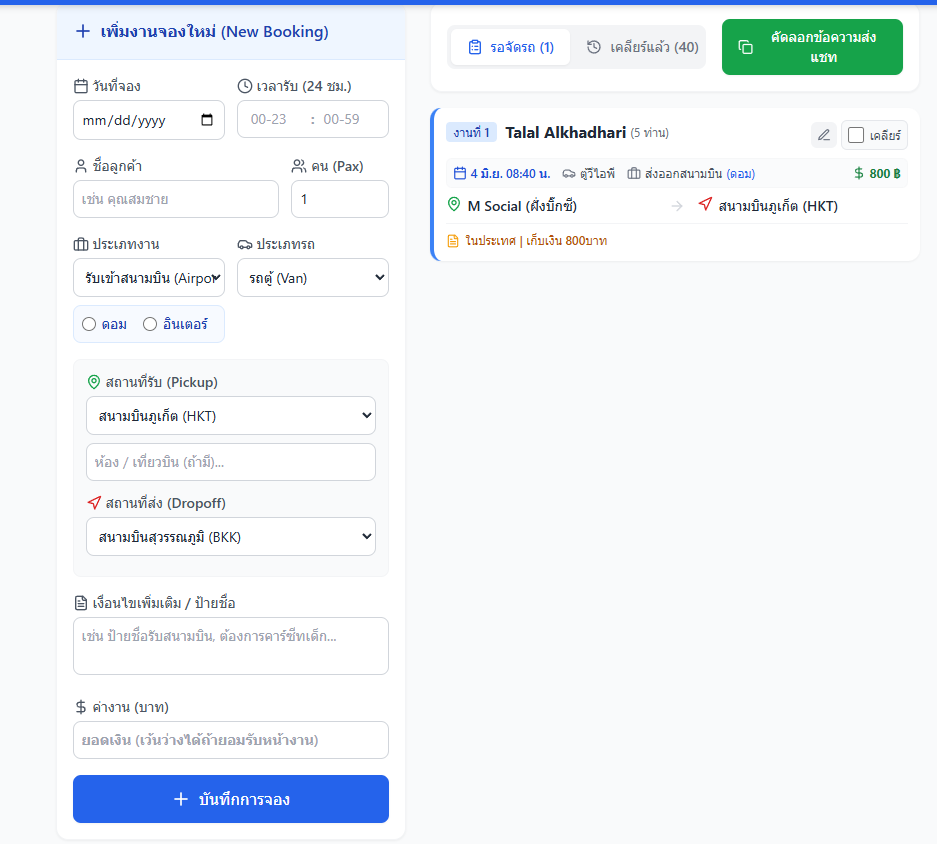
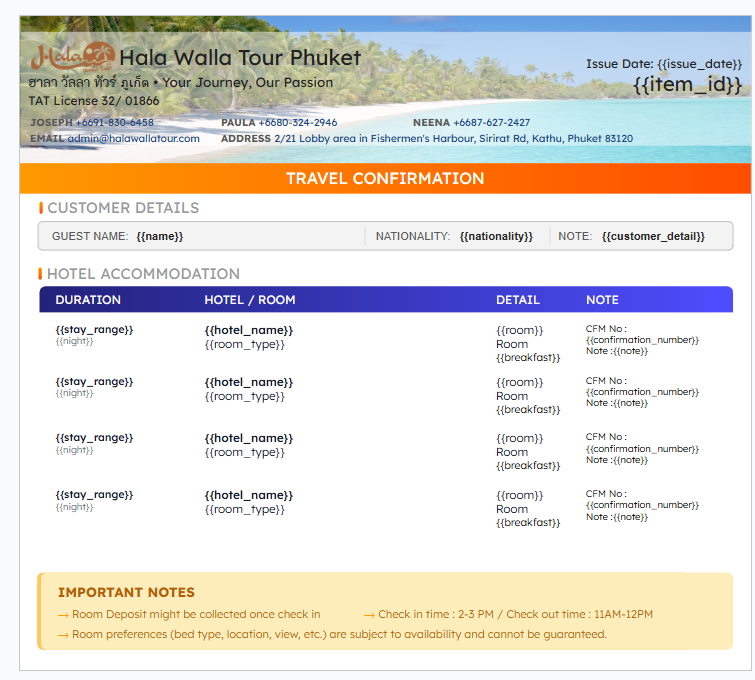
a

diff --git a/src/components/DateField.js b/src/components/DateField.js
@@ -8,6 +8,9 @@ import { th } from 'date-fns/locale';
 
 registerLocale('th', th);
 
+const TH_MONTHS_FULL = ['มกราคม', 'กุมภาพันธ์', 'มีนาคม', 'เมษายน', 'พฤษภาคม', 'มิถุนายน', 'กรกฎาคม', 'สิงหาคม', 'กันยายน', 'ตุลาคม', 'พฤศจิกายน', 'ธันวาคม'];
+const TH_MONTHS_SHORT = ['ม.ค.', 'ก.พ.', 'มี.ค.', 'เม.ย.', 'พ.ค.', 'มิ.ย.', 'ก.ค.', 'ส.ค.', 'ก.ย.', 'ต.ค.', 'พ.ย.', 'ธ.ค.'];
+
 // ----- conversion helpers (storage stays Gregorian 'YYYY-MM-DD' / 'HH:mm') -----
 function toDate(str) {
   if (!str) return null;
@@ -15,7 +18,6 @@ function toDate(str) {
   if (!y || !m || !d) return null;
   return new Date(y, m - 1, d);
 }
-
 function toStr(date) {
   if (!date) return '';
   const y = date.getFullYear();
@@ -23,122 +25,113 @@ function toStr(date) {
   const d = String(date.getDate()).padStart(2, '0');
   return `${y}-${m}-${d}`;
 }
-
 function toTime(str) {
   if (!str) return null;
   const [h, m] = str.split(':').map(Number);
   if (Number.isNaN(h) || Number.isNaN(m)) return null;
-  const d = new Date();
-  d.setHours(h, m, 0, 0);
-  return d;
+  const d = new Date(); d.setHours(h, m, 0, 0); return d;
 }
-
 function toTimeStr(date) {
   if (!date) return '';
-  const h = String(date.getHours()).padStart(2, '0');
-  const m = String(date.getMinutes()).padStart(2, '0');
-  return `${h}:${m}`;
+  return `${String(date.getHours()).padStart(2, '0')}:${String(date.getMinutes()).padStart(2, '0')}`;
 }
 
-// Thai display with Buddhist-era year (พ.ศ. = ค.ศ. + 543), short Thai month.
+// Thai display, Buddhist-era year (พ.ศ. = ค.ศ. + 543)
 function thaiDate(date) {
   if (!date) return '';
-  return `${format(date, 'd MMM', { locale: th })} ${date.getFullYear() + 543}`;
+  return `${format(date, 'd', { locale: th })} ${TH_MONTHS_SHORT[date.getMonth()]} ${date.getFullYear() + 543}`;
 }
 
-// Read-only input that renders a Thai พ.ศ. string instead of the Gregorian value
-// react-datepicker would otherwise inject. We read our own `display` prop so the
-// library's injected `value` is ignored.
-const ThaiInput = forwardRef(function ThaiInput({ display, onClick, placeholder }, ref) {
+// Read-only input rendering a Thai พ.ศ. string (ignores the Gregorian value react-datepicker injects)
+const ThaiInput = forwardRef(function ThaiInput({ display, onClick, placeholder, hasIcon }, ref) {
   return (
-    <input
-      ref={ref}
-      type="text"
-      readOnly
-      onClick={onClick}
-      value={display || ''}
-      placeholder={placeholder}
-      className="input cursor-pointer"
-    />
+    <div className="dp-input-wrap">
+      {hasIcon && <span className="dp-input-icon">📅</span>}
+      <input ref={ref} type="text" readOnly onClick={onClick} value={display || ''} placeholder={placeholder}
+        className={`input cursor-pointer ${hasIcon ? 'pl-9' : ''}`} />
+    </div>
   );
 });
 
-// Thai พ.ศ. month/year header with prev/next navigation.
-function thaiHeader({ monthDate, decreaseMonth, increaseMonth, prevMonthButtonDisabled, nextMonthButtonDisabled }) {
+// ----- calendar headers (Thai month dropdown + พ.ศ. year, pic1 style) -----
+function dayHeader({ date, changeMonth, decreaseMonth, increaseMonth, prevMonthButtonDisabled, nextMonthButtonDisabled }) {
   return (
-    <div className="flex items-center justify-between px-2 py-1">
+    <div className="dp-header">
       <button type="button" onClick={decreaseMonth} disabled={prevMonthButtonDisabled} className="dp-nav" aria-label="เดือนก่อนหน้า">‹</button>
-      <span className="font-semibold text-sm">
-        {format(monthDate, 'MMMM', { locale: th })} {monthDate.getFullYear() + 543}
-      </span>
+      <div className="dp-header-mid">
+        <span className="dp-month-select">
+          <select value={date.getMonth()} onChange={e => changeMonth(+e.target.value)} aria-label="เลือกเดือน">
+            {TH_MONTHS_FULL.map((name, i) => <option key={i} value={i}>{name}</option>)}
+          </select>
+        </span>
+        <span className="dp-year">{date.getFullYear() + 543}</span>
+      </div>
       <button type="button" onClick={increaseMonth} disabled={nextMonthButtonDisabled} className="dp-nav" aria-label="เดือนถัดไป">›</button>
     </div>
   );
 }
+function yearNavHeader({ date, decreaseYear, increaseYear, prevYearButtonDisabled, nextYearButtonDisabled }) {
+  return (
+    <div className="dp-header">
+      <button type="button" onClick={decreaseYear} disabled={prevYearButtonDisabled} className="dp-nav" aria-label="ปีก่อนหน้า">‹</button>
+      <span className="dp-year">พ.ศ. {date.getFullYear() + 543}</span>
+      <button type="button" onClick={increaseYear} disabled={nextYearButtonDisabled} className="dp-nav" aria-label="ปีถัดไป">›</button>
+    </div>
+  );
+}
 
-const sharedProps = {
-  locale: 'th',
-  showPopperArrow: false,
-  renderCustomHeader: thaiHeader,
-  popperClassName: 'dp-popper',
-  // render the calendar at <body> so the modal's overflow:auto can't clip it
-  portalId: 'datepicker-portal',
-};
+const shared = { locale: 'th', showPopperArrow: false, popperClassName: 'dp-popper', portalId: 'datepicker-portal', wrapperClassName: 'w-full', calendarClassName: 'dp-cal', isClearable: true };
 
-// Single date picker → onChange('YYYY-MM-DD')
+// Single date → onChange('YYYY-MM-DD')
 export function DateField({ value, onChange, placeholder = 'เลือกวันที่' }) {
   const date = toDate(value);
   return (
-    <DatePicker
-      {...sharedProps}
-      selected={date}
-      onChange={(d) => onChange(toStr(d))}
-      customInput={<ThaiInput display={thaiDate(date)} placeholder={placeholder} />}
-      wrapperClassName="w-full"
-      isClearable
-    />
+    <DatePicker {...shared} renderCustomHeader={dayHeader} selected={date}
+      onChange={d => onChange(toStr(d))}
+      customInput={<ThaiInput display={thaiDate(date)} placeholder={placeholder} hasIcon />} />
   );
 }
 
-// From-to range, picked in one popup → onChange('YYYY-MM-DD' start, 'YYYY-MM-DD' end)
+// From-to range in one popup → onChange(startStr, endStr)
 export function DateRangeField({ start, end, onChange, placeholder = 'เลือกช่วงวันที่' }) {
-  const s = toDate(start);
-  const e = toDate(end);
+  const s = toDate(start), e = toDate(end);
   const display = s ? (e ? `${thaiDate(s)} – ${thaiDate(e)}` : thaiDate(s)) : '';
   return (
-    <DatePicker
-      {...sharedProps}
-      selectsRange
-      startDate={s}
-      endDate={e}
+    <DatePicker {...shared} renderCustomHeader={dayHeader} selectsRange startDate={s} endDate={e}
       onChange={([ns, ne]) => onChange(toStr(ns), toStr(ne))}
-      customInput={<ThaiInput display={display} placeholder={placeholder} />}
-      wrapperClassName="w-full"
-      isClearable
-    />
+      customInput={<ThaiInput display={display} placeholder={placeholder} hasIcon />} />
   );
 }
 
-// Time-only picker locked to 24h 'HH:mm' → onChange('HH:mm')
+// Time-only, 24h 'HH:mm' → onChange('HH:mm')
 export function TimeField({ value, onChange, placeholder = 'เลือกเวลา' }) {
   return (
-    <DatePicker
-      locale="th"
-      showPopperArrow={false}
-      popperClassName="dp-popper"
-      portalId="datepicker-portal"
-      selected={toTime(value)}
-      onChange={(d) => onChange(toTimeStr(d))}
-      showTimeSelect
-      showTimeSelectOnly
-      timeFormat="HH:mm"
-      dateFormat="HH:mm"
-      timeIntervals={15}
-      timeCaption="เวลา"
-      placeholderText={placeholder}
-      className="input"
-      wrapperClassName="w-full"
-      isClearable
-    />
+    <DatePicker locale="th" showPopperArrow={false} popperClassName="dp-popper" portalId="datepicker-portal"
+      wrapperClassName="w-full" isClearable selected={toTime(value)} onChange={d => onChange(toTimeStr(d))}
+      showTimeSelect showTimeSelectOnly timeFormat="HH:mm" dateFormat="HH:mm" timeIntervals={15} timeCaption="เวลา"
+      placeholderText={placeholder} className="input" />
+  );
+}
+
+// Month picker → value/onChange 'YYYY-MM'
+export function MonthField({ value, onChange, placeholder = 'เลือกเดือน' }) {
+  const date = value ? new Date(+value.slice(0, 4), +value.slice(5, 7) - 1, 1) : null;
+  const display = date ? `${TH_MONTHS_FULL[date.getMonth()]} ${date.getFullYear() + 543}` : '';
+  return (
+    <DatePicker {...shared} showMonthYearPicker renderCustomHeader={yearNavHeader}
+      renderMonthContent={(m) => TH_MONTHS_SHORT[m]} selected={date}
+      onChange={d => onChange(d ? `${d.getFullYear()}-${String(d.getMonth() + 1).padStart(2, '0')}` : '')}
+      customInput={<ThaiInput display={display} placeholder={placeholder} hasIcon />} />
+  );
+}
+
+// Year picker (พ.ศ. cells) → value/onChange 'YYYY'
+export function YearField({ value, onChange, placeholder = 'เลือกปี' }) {
+  const date = value ? new Date(+value, 0, 1) : null;
+  const display = date ? `พ.ศ. ${date.getFullYear() + 543}` : '';
+  return (
+    <DatePicker {...shared} showYearPicker yearItemNumber={12} renderYearContent={(y) => y + 543} selected={date}
+      onChange={d => onChange(d ? String(d.getFullYear()) : '')}
+      customInput={<ThaiInput display={display} placeholder={placeholder} hasIcon />} />
   );
 }

diff --git a/src/app/globals.css b/src/app/globals.css
@@ -74,35 +74,76 @@
   .action-btn:hover { background: var(--color-surface-hover); border-color: var(--color-text-muted); }
 }
 
-/* ---------- react-datepicker: match .input + brand theme ---------- */
+/* ---------- react-datepicker (pic1 style): clean range, gray band, month dropdown ---------- */
 .react-datepicker-wrapper { width: 100%; }
 /* two-class selector beats the library's own `.react-datepicker-popper { z-index: 1 }`
    regardless of stylesheet load order, so the calendar sits above the modal (z-50) */
 .react-datepicker-popper.dp-popper { z-index: 9999; }
-.react-datepicker {
+.react-datepicker.dp-cal {
   font-family: var(--font-sans);
   border: 1px solid var(--color-border);
-  border-radius: 12px;
-  box-shadow: 0 10px 30px rgba(15, 23, 42, 0.12);
-  overflow: hidden;
+  border-radius: 16px;
+  box-shadow: 0 12px 34px rgba(15, 23, 42, 0.14);
+  padding: 10px;
 }
-.react-datepicker__header { background: var(--color-surface-alt); border-bottom: 1px solid var(--color-border); padding-top: 8px; }
-.react-datepicker__current-month, .react-datepicker__day-name { color: var(--color-text-secondary); }
-.react-datepicker__day:hover { background: var(--color-surface-hover); border-radius: 8px; }
-.react-datepicker__day--selected,
-.react-datepicker__day--range-start,
-.react-datepicker__day--range-end { background: var(--color-brand); color: #fff; border-radius: 8px; }
-.react-datepicker__day--in-range,
-.react-datepicker__day--in-selecting-range { background: var(--color-brand-bg); color: var(--color-brand-dark); }
-.react-datepicker__day--keyboard-selected { background: var(--color-brand-bg); color: var(--color-brand-dark); }
+.dp-cal .react-datepicker__header { background: transparent; border-bottom: none; padding: 0; }
+.dp-cal .react-datepicker__month { margin: 4px 0 0; }
+.dp-cal .react-datepicker__day-names { margin: 6px 0 2px; }
+.dp-cal .react-datepicker__day-name { color: var(--color-text-muted); font-size: 12px; font-weight: 600; width: 2.1rem; line-height: 1.6rem; margin: 0; }
+
+/* day cells: equal box, no margin so the range reads as a continuous band */
+.dp-cal .react-datepicker__day { width: 2.1rem; height: 2.1rem; line-height: 2.1rem; margin: 0; border-radius: 9999px; color: var(--color-text-primary); transition: background 0.1s; }
+.dp-cal .react-datepicker__day:hover { background: var(--color-surface-hover); border-radius: 9999px; }
+.dp-cal .react-datepicker__day--outside-month { color: var(--color-text-muted); opacity: 0.45; }
+.dp-cal .react-datepicker__day--disabled { color: var(--color-text-muted); opacity: 0.3; }
+
+/* in-between range = gray band (square so cells join up) */
+.dp-cal .react-datepicker__day--in-range,
+.dp-cal .react-datepicker__day--in-selecting-range { background: var(--color-surface-hover); color: var(--color-text-primary); border-radius: 0; }
+
+/* start / end / single selected = filled blue circle */
+.dp-cal .react-datepicker__day--selected,
+.dp-cal .react-datepicker__day--range-start,
+.dp-cal .react-datepicker__day--range-end,
+.dp-cal .react-datepicker__day--selecting-range-start,
+.dp-cal .react-datepicker__day--selecting-range-end { background: var(--color-brand); color: #fff; border-radius: 9999px; font-weight: 600; }
+.dp-cal .react-datepicker__day--range-start { border-top-left-radius: 9999px; border-bottom-left-radius: 9999px; }
+.dp-cal .react-datepicker__day--range-end { border-top-right-radius: 9999px; border-bottom-right-radius: 9999px; }
+.dp-cal .react-datepicker__day--keyboard-selected { background: var(--color-brand-bg); color: var(--color-brand-dark); border-radius: 9999px; }
+.dp-cal .react-datepicker__today, .dp-cal .react-datepicker__day--today { font-weight: 700; }
+
+/* month / year picker cells */
+.dp-cal .react-datepicker__month-text, .dp-cal .react-datepicker__year-text { padding: 8px 4px; border-radius: 10px; }
+.dp-cal .react-datepicker__month-text:hover, .dp-cal .react-datepicker__year-text:hover { background: var(--color-surface-hover); }
+.dp-cal .react-datepicker__month-text--selected, .dp-cal .react-datepicker__year-text--selected,
+.dp-cal .react-datepicker__month--selected { background: var(--color-brand) !important; color: #fff !important; border-radius: 10px; }
+
 .react-datepicker__close-icon::after { background: var(--color-text-muted); }
 .react-datepicker__time-list-item--selected { background: var(--color-brand) !important; }
+/* hide the year-picker's default Gregorian range text but keep its box so the
+   corner nav arrows still have room (cells already show พ.ศ.) — year picker only */
+.dp-cal .react-datepicker-year-header { color: transparent; font-size: 0; line-height: 0; padding: 14px 0; }
+.dp-cal .react-datepicker__navigation { top: 10px; }
+
+/* header: ‹  [เดือน ▾]  พ.ศ.  › */
+.dp-header { display: flex; align-items: center; justify-content: space-between; padding: 2px 2px 6px; }
+.dp-header-mid { display: flex; align-items: center; gap: 8px; }
+.dp-month-select { position: relative; display: inline-flex; align-items: center; }
+.dp-month-select select { appearance: none; -webkit-appearance: none; border: none; background: transparent; font-weight: 700; font-size: 15px; color: var(--color-text-primary); cursor: pointer; padding: 2px 16px 2px 4px; border-radius: 8px; }
+.dp-month-select select:hover { background: var(--color-surface-hover); }
+.dp-month-select::after { content: '▾'; position: absolute; right: 4px; top: 50%; transform: translateY(-50%); pointer-events: none; font-size: 10px; color: var(--color-text-muted); }
+.dp-year { font-weight: 700; font-size: 15px; color: var(--color-text-primary); }
 .dp-nav {
-  width: 28px; height: 28px; border-radius: 8px; border: 1px solid var(--color-border);
-  background: var(--color-surface); color: var(--color-text-secondary); font-size: 16px; line-height: 1;
-  display: inline-flex; align-items: center; justify-content: center; cursor: pointer;
+  width: 30px; height: 30px; border-radius: 9999px; border: 1px solid var(--color-border);
+  background: var(--color-surface); color: var(--color-text-secondary); font-size: 17px; line-height: 1;
+  display: inline-flex; align-items: center; justify-content: center; cursor: pointer; transition: background 0.1s;
 }
-.dp-nav:hover { background: var(--color-surface-hover); }
+.dp-nav:hover:not(:disabled) { background: var(--color-surface-hover); }
+.dp-nav:disabled { opacity: 0.3; cursor: default; }
+
+/* input with leading calendar icon */
+.dp-input-wrap { position: relative; width: 100%; }
+.dp-input-icon { position: absolute; left: 12px; top: 50%; transform: translateY(-50%); pointer-events: none; font-size: 14px; opacity: 0.7; }
 
 /* ---------- searchable combobox ---------- */
 .combobox { position: relative; width: 100%; }

diff --git a/src/app/dashboard/page.js b/src/app/dashboard/page.js
@@ -4,7 +4,7 @@ import { supabase } from '@/lib/supabase';
 import toast from 'react-hot-toast';
 import Swal from 'sweetalert2';
 import Link from 'next/link';
-import { DateField, TimeField } from '@/components/DateField';
+import { DateField, TimeField, MonthField, YearField } from '@/components/DateField';
 import Combobox from '@/components/Combobox';
 
 /* ---------- helpers ---------- */
@@ -192,8 +192,8 @@ function MonthlyReport({ tours, hotels, month, setMonth }) {
     <div className="space-y-5">
       <div className="card p-5 flex flex-col lg:flex-row lg:items-center justify-between gap-4">
         <div className="flex items-center gap-3">
-          <label className="font-semibold text-sm">Select Month:</label>
-          <input type="month" className="input w-auto" value={month} onChange={e => setMonth(e.target.value)} />
+          <label className="font-semibold text-sm">เลือกเดือน:</label>
+          <div className="w-52"><MonthField value={month} onChange={setMonth} /></div>
         </div>
         <div className="flex flex-wrap gap-3">
           <TotalCard label="TOTAL TOUR" value={totalTour} />
@@ -264,17 +264,12 @@ function YearlyReport({ tours, hotels, year, setYear }) {
     });
   }, [tours, hotels, year]);
   const grand = { t: sum(rows, r => r.tProfit), h: sum(rows, r => r.hProfit), all: sum(rows, r => r.total) };
-  const years = [];
-  const nowY = year ? parseInt(year) : new Date().getFullYear();
-  for (let y = nowY + 1; y >= nowY - 5; y--) years.push(y);
 
   return (
     <div className="space-y-5">
       <div className="card p-5 flex items-center gap-3">
-        <label className="font-semibold text-sm">Select Year:</label>
-        <select className="input w-auto" value={year} onChange={e => setYear(e.target.value)}>
-          {years.map(y => <option key={y} value={String(y)}>{y}</option>)}
-        </select>
+        <label className="font-semibold text-sm">เลือกปี:</label>
+        <div className="w-44"><YearField value={year} onChange={v => v && setYear(v)} /></div>
       </div>
       <div className="card p-5">
         <h3 className="font-bold text-sm tracking-wide mb-3">YEARLY REPORT — กำไรรายเดือน {year}</h3>
